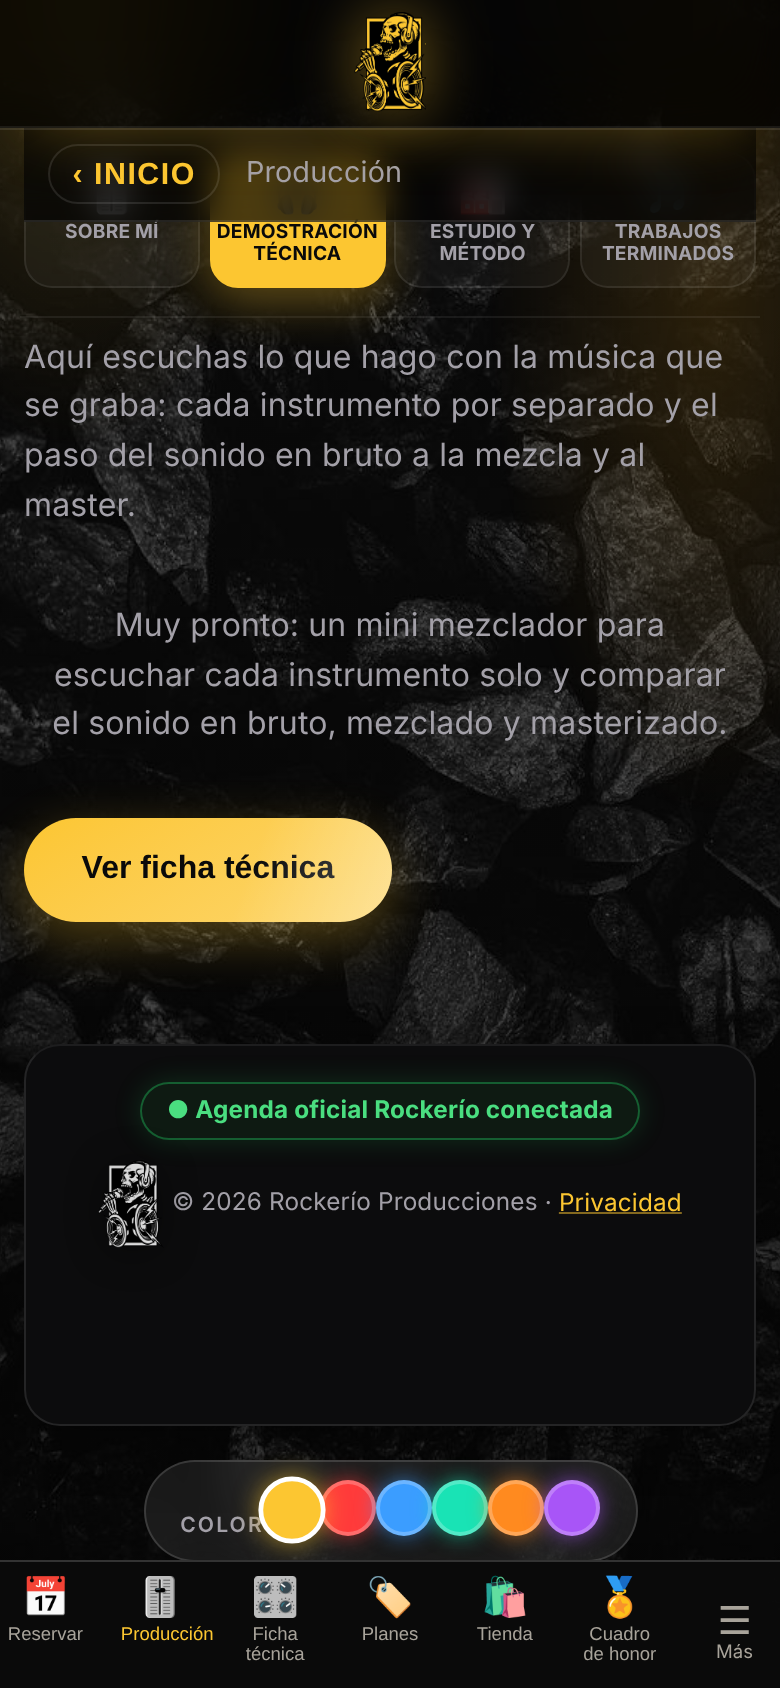
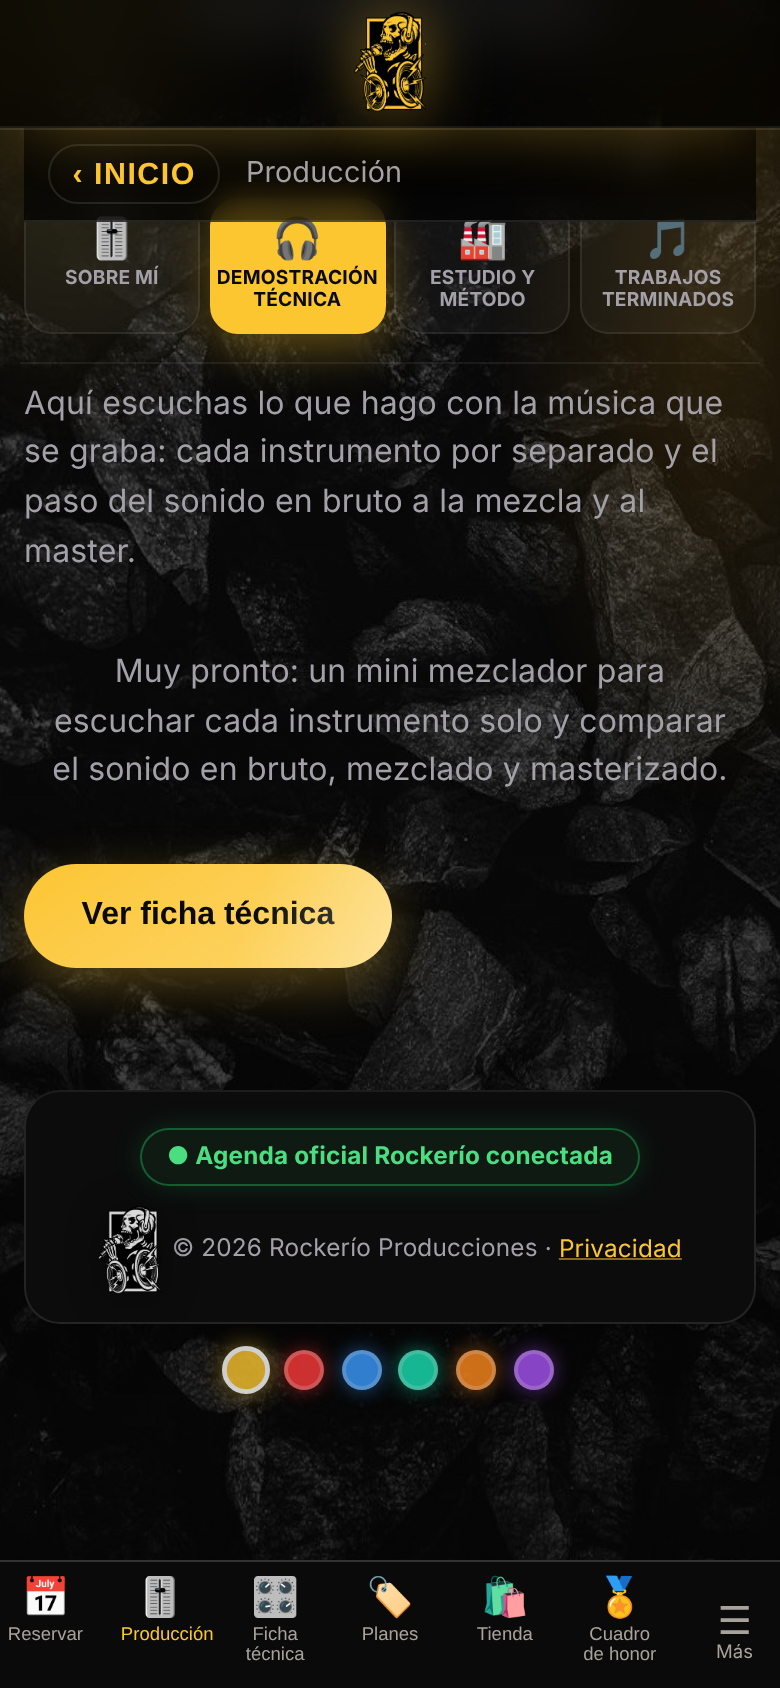
Móvil: selector de color discreto bajo el pie; Tienda siempre abre (aviso si no hay productos)
Claude-Session: https://claude.ai/code/session_01XCoHY3KD5S9ag2ugMqjwE4

diff --git a/index.html b/index.html
@@ -17,17 +17,17 @@
 <link rel="icon" href="assets/favicon.png">
 <link rel="preconnect" href="https://fonts.googleapis.com">
 <link href="https://fonts.googleapis.com/css2?family=Oswald:wght@500;700&family=Inter:wght@400;600;700&display=swap" rel="stylesheet">
-<link rel="stylesheet" href="css/styles.css?v=202611260240">
-<link rel="stylesheet" href="css/temas.css?v=202611260240">
-<link rel="stylesheet" href="css/movil.css?v=202611260240">
-<link rel="stylesheet" href="css/clasico.css?v=202611260240">
-<link rel="stylesheet" href="css/pulido.css?v=202611260240">
-<link rel="stylesheet" href="css/produccion.css?v=202611260240">
-<link rel="stylesheet" href="css/legible.css?v=202611260240">
+<link rel="stylesheet" href="css/styles.css?v=202611260302">
+<link rel="stylesheet" href="css/temas.css?v=202611260302">
+<link rel="stylesheet" href="css/movil.css?v=202611260302">
+<link rel="stylesheet" href="css/clasico.css?v=202611260302">
+<link rel="stylesheet" href="css/pulido.css?v=202611260302">
+<link rel="stylesheet" href="css/produccion.css?v=202611260302">
+<link rel="stylesheet" href="css/legible.css?v=202611260302">
 <script>(function(){try{var q=/[?&]rediseno=(\d)/.exec(location.search);if(q)localStorage.setItem('rk-rd',q[1]);if(localStorage.getItem('rk-rd')!=='0'){document.documentElement.classList.add('rd');['css/rediseno.css'].forEach(function(h){var l=document.createElement('link');l.rel='stylesheet';l.href=h;document.head.appendChild(l)})}}catch(e){}})()</script>
 <script>try{var _p=localStorage.getItem("rk-portada");if(/^https:\/\/[^\s"'()\\]+$/.test(_p||""))document.documentElement.style.setProperty("--portada-url","url(\""+_p+"\")")}catch(e){}</script>
-<script src="js/tema.js?v=202611260240"></script><script src="js/teclado.js?v=202611260240" defer></script>
-<link rel="stylesheet" href="css/tipografia.css?v=202611260240">
+<script src="js/tema.js?v=202611260302"></script><script src="js/teclado.js?v=202611260302" defer></script>
+<link rel="stylesheet" href="css/tipografia.css?v=202611260302">
 </head>
 <body>
 <div id="aviso" class="aviso" hidden></div>
@@ -409,15 +409,15 @@
 
 <footer><p class="pie-chips"><span class="chip-ok">● Agenda oficial Rockerío conectada</span></p><img src="assets/marcas/calavera.png" alt="ROCKERÍO Producciones"> <span id="pie"></span> · <a href="#privacidad" data-vista="privacidad">Privacidad</a></footer>
 
-<script src="js/config.js?v=202611260240"></script>
-<script src="js/reglas.js?v=202611260240"></script>
-<script src="js/app.js?v=202611260240"></script>
-<script src="js/planes.js?v=202611260240"></script>
-<script src="js/mezclador.js?v=202611260240"></script>
-<script src="js/contenido.js?v=202611260240"></script>
-<script src="js/pasos.js?v=202611260240"></script>
-<script src="js/vu.js?v=202611260240" defer></script><script src="js/inicio.js?v=202611260240" defer></script><script src="js/vistas.js?v=202611260240"></script><script src="js/visitas.js?v=202611260240" defer></script>
+<script src="js/config.js?v=202611260302"></script>
+<script src="js/reglas.js?v=202611260302"></script>
+<script src="js/app.js?v=202611260302"></script>
+<script src="js/planes.js?v=202611260302"></script>
+<script src="js/mezclador.js?v=202611260302"></script>
+<script src="js/contenido.js?v=202611260302"></script>
+<script src="js/pasos.js?v=202611260302"></script>
+<script src="js/vu.js?v=202611260302" defer></script><script src="js/inicio.js?v=202611260302" defer></script><script src="js/vistas.js?v=202611260302"></script><script src="js/visitas.js?v=202611260302" defer></script>
 <script>(function(){var h=document.querySelector(".hero-marca");if(!h||matchMedia("(prefers-reduced-motion:reduce)").matches)return;addEventListener("scroll",function(){h.style.setProperty("--par",Math.min(scrollY*.12,60)+"px")},{passive:true})})();</script>
-<script src="js/frescura.js?v=202611260240" defer></script>
+<script src="js/frescura.js?v=202611260302" defer></script>
 </body>
 </html>

diff --git a/disponibilidad.html b/disponibilidad.html
@@ -5,9 +5,9 @@
 <title>Disponibilidad · ROCKERÍO Producciones</title>
 <link rel="icon" href="assets/favicon.png">
 <link href="https://fonts.googleapis.com/css2?family=Oswald:wght@500;700&family=Inter:wght@400;600;700&display=swap" rel="stylesheet">
-<link rel="stylesheet" href="css/styles.css?v=202611260240"><link rel="stylesheet" href="css/temas.css?v=202611260240"><link rel="stylesheet" href="css/portal.css?v=202611260240"><link rel="stylesheet" href="css/disp.css?v=202611260240">
-<script src="js/tema.js?v=202611260240"></script><script src="js/teclado.js?v=202611260240" defer></script>
-<link rel="stylesheet" href="css/tipografia.css?v=202611260240">
+<link rel="stylesheet" href="css/styles.css?v=202611260302"><link rel="stylesheet" href="css/temas.css?v=202611260302"><link rel="stylesheet" href="css/portal.css?v=202611260302"><link rel="stylesheet" href="css/disp.css?v=202611260302">
+<script src="js/tema.js?v=202611260302"></script><script src="js/teclado.js?v=202611260302" defer></script>
+<link rel="stylesheet" href="css/tipografia.css?v=202611260302">
 </head><body>
 <main class="pg disp">
   <a class="marca" href="index.html"><img src="assets/logo-horizontal-dorado.png" alt="ROCKERÍO Producciones"></a>
@@ -15,7 +15,7 @@
   <p class="sub">Elige cuántas horas necesitas y toca el horario que más te acomode. Pasas directo a reservar.</p>
   <div id="dias"><p class="sub">Cargando…</p></div>
 </main>
-<script src="js/config.js?v=202611260240"></script><script src="js/reglas.js?v=202611260240"></script><script src="js/agenda.js?v=202611260240"></script>
+<script src="js/config.js?v=202611260302"></script><script src="js/reglas.js?v=202611260302"></script><script src="js/agenda.js?v=202611260302"></script>
 <div class="pie-marca"><img src="assets/marcas/calavera.png" alt="" aria-hidden="true"><span>Rockerío Producciones</span></div>
-<script src="js/frescura.js?v=202611260240" defer></script>
+<script src="js/frescura.js?v=202611260302" defer></script>
 </body></html>

diff --git a/agenda/index.html b/agenda/index.html
@@ -6,9 +6,9 @@
 <title>Agenda · Rockerío</title>
 <link rel="icon" href="assets/favicon.png">
 <link href="https://fonts.googleapis.com/css2?family=Oswald:wght@500;700&family=Inter:wght@400;600;700&display=swap" rel="stylesheet">
-<link rel="stylesheet" href="css/styles.css?v=202611260240"><link rel="stylesheet" href="css/temas.css?v=202611260240"><link rel="stylesheet" href="css/portal.css?v=202611260240">
-<script src="js/tema.js?v=202611260240"></script><script src="js/teclado.js?v=202611260240" defer></script>
-<link rel="stylesheet" href="../css/tipografia.css?v=202611260240">
+<link rel="stylesheet" href="css/styles.css?v=202611260302"><link rel="stylesheet" href="css/temas.css?v=202611260302"><link rel="stylesheet" href="css/portal.css?v=202611260302">
+<script src="js/tema.js?v=202611260302"></script><script src="js/teclado.js?v=202611260302" defer></script>
+<link rel="stylesheet" href="../css/tipografia.css?v=202611260301">
 </head><body data-modo="social">
 <main class="pg">
   <img src="assets/logo-horizontal-dorado.png" alt="ROCKERÍO Producciones" style="height:44px">
@@ -21,7 +21,7 @@
   <section id="v-bebestible" hidden></section>
   <section id="v-historial" hidden></section>
 </main>
-<script src="js/config.js?v=202611260240"></script><script src="js/reglas.js?v=202611260240"></script><script src="js/socios.js?v=202611260240"></script>
+<script src="js/config.js?v=202611260302"></script><script src="js/reglas.js?v=202611260302"></script><script src="js/socios.js?v=202611260302"></script>
 <div class="pie-marca"><img src="../assets/marcas/calavera.png" alt="" aria-hidden="true"><span>Rockerío Producciones</span></div>
-<script src="../js/frescura.js?v=202611260240" defer></script>
+<script src="../js/frescura.js?v=202611260301" defer></script>
 </body></html>

diff --git a/socios.html b/socios.html
@@ -5,9 +5,9 @@
 <title>Socios · ROCKERÍO</title>
 <link rel="icon" href="assets/favicon.png">
 <link href="https://fonts.googleapis.com/css2?family=Oswald:wght@500;700&family=Inter:wght@400;600;700&display=swap" rel="stylesheet">
-<link rel="stylesheet" href="css/styles.css?v=202611260240"><link rel="stylesheet" href="css/temas.css?v=202611260240"><link rel="stylesheet" href="css/portal.css?v=202611260240">
-<script src="js/tema.js?v=202611260240"></script><script src="js/teclado.js?v=202611260240" defer></script>
-<link rel="stylesheet" href="css/tipografia.css?v=202611260240">
+<link rel="stylesheet" href="css/styles.css?v=202611260302"><link rel="stylesheet" href="css/temas.css?v=202611260302"><link rel="stylesheet" href="css/portal.css?v=202611260302">
+<script src="js/tema.js?v=202611260302"></script><script src="js/teclado.js?v=202611260302" defer></script>
+<link rel="stylesheet" href="css/tipografia.css?v=202611260302">
 </head><body>
 <main class="pg">
   <img src="assets/logo-horizontal-dorado.png" alt="ROCKERÍO Producciones" style="height:44px">
@@ -20,7 +20,7 @@
   <section id="v-bebestible" hidden></section>
   <section id="v-historial" hidden></section>
 </main>
-<script src="js/config.js?v=202611260240"></script><script src="js/reglas.js?v=202611260240"></script><script src="js/socios.js?v=202611260240"></script>
+<script src="js/config.js?v=202611260302"></script><script src="js/reglas.js?v=202611260302"></script><script src="js/socios.js?v=202611260302"></script>
 <div class="pie-marca"><img src="assets/marcas/calavera.png" alt="" aria-hidden="true"><span>Rockerío Producciones</span></div>
-<script src="js/frescura.js?v=202611260240" defer></script>
+<script src="js/frescura.js?v=202611260302" defer></script>
 </body></html>

diff --git a/proaudix/index.html b/proaudix/index.html
@@ -6,9 +6,9 @@
 <title>ProAudix · Rockerío</title>
 <link rel="icon" href="assets/favicon.png">
 <link href="https://fonts.googleapis.com/css2?family=Oswald:wght@500;700&family=Inter:wght@400;600;700&display=swap" rel="stylesheet">
-<link rel="stylesheet" href="css/styles.css?v=202611260240"><link rel="stylesheet" href="css/temas.css?v=202611260240"><link rel="stylesheet" href="css/portal.css?v=202611260240">
-<script src="js/tema.js?v=202611260240"></script>
-<link rel="stylesheet" href="../css/tipografia.css?v=202611260240">
+<link rel="stylesheet" href="css/styles.css?v=202611260302"><link rel="stylesheet" href="css/temas.css?v=202611260302"><link rel="stylesheet" href="css/portal.css?v=202611260302">
+<script src="js/tema.js?v=202611260302"></script>
+<link rel="stylesheet" href="../css/tipografia.css?v=202611260301">
 </head><body data-modo="colega">
 <main class="pg">
   <img src="assets/logo-horizontal-dorado.png" alt="ROCKERÍO Producciones" style="height:44px">
@@ -21,7 +21,7 @@
   <section id="v-bebestible" hidden></section>
   <section id="v-historial" hidden></section>
 </main>
-<script src="js/config.js?v=202611260240"></script><script src="js/reglas.js?v=202611260240"></script><script src="js/socios.js?v=202611260240"></script>
+<script src="js/config.js?v=202611260302"></script><script src="js/reglas.js?v=202611260302"></script><script src="js/socios.js?v=202611260302"></script>
 <div class="pie-marca"><img src="../assets/marcas/calavera.png" alt="" aria-hidden="true"><span>Rockerío Producciones</span></div>
-<script src="../js/frescura.js?v=202611260240" defer></script>
+<script src="../js/frescura.js?v=202611260301" defer></script>
 </body></html>

diff --git a/css/tipografia.css b/css/tipografia.css
@@ -19,3 +19,11 @@ html .btn,html button.btn{font-family:Oswald,Impact,sans-serif!important}
 .dp-dur{max-width:none!important}
 .wizard fieldset.activo,.wiz-barra{margin-left:0!important;margin-right:0!important}
 .sec .wizard{margin-left:0!important;margin-right:0!important}
+
+/* MÓVIL: selector de color discreto, sin estorbar la barra inferior */
+@media(max-width:699px){
+  footer{padding-bottom:.9rem!important}
+  .selector-tema{display:flex!important;min-width:0!important;width:fit-content!important;margin:.5rem auto 5rem!important;padding:.3rem .7rem!important;gap:.55rem!important;background:transparent!important;border:0!important;box-shadow:none!important;backdrop-filter:none!important;opacity:.8}
+  .selector-tema .tema-rot{display:none!important}
+  .tema-dot{width:20px!important;height:20px!important}
+}

diff --git a/js/app.js b/js/app.js
@@ -411,8 +411,8 @@
   function pintarTienda(items) {
     var cont = $('tienda-in'); cont.textContent = '';
     items = (items || []).filter(function (p) { return !/beb/i.test(p.categoria || ''); });
-    if (!items.length) { $('tienda').hidden = true; return; }
     $('tienda').hidden = !cfg.verTienda;
+    if (!items.length) { cont.appendChild(el('p', 'sub', 'Por ahora no hay productos publicados. Consúltanos por WhatsApp y te contamos qué tenemos en sala.')); return; }
     var rejilla = el('div', 'prods tienda-grid'); cont.appendChild(rejilla);
     items.forEach(function (p) {
       var agotado = p.stock === 0, f = el('div', 'prod' + (agotado ? ' agotado' : '') + (p.foto ? ' con-foto' : ''));
